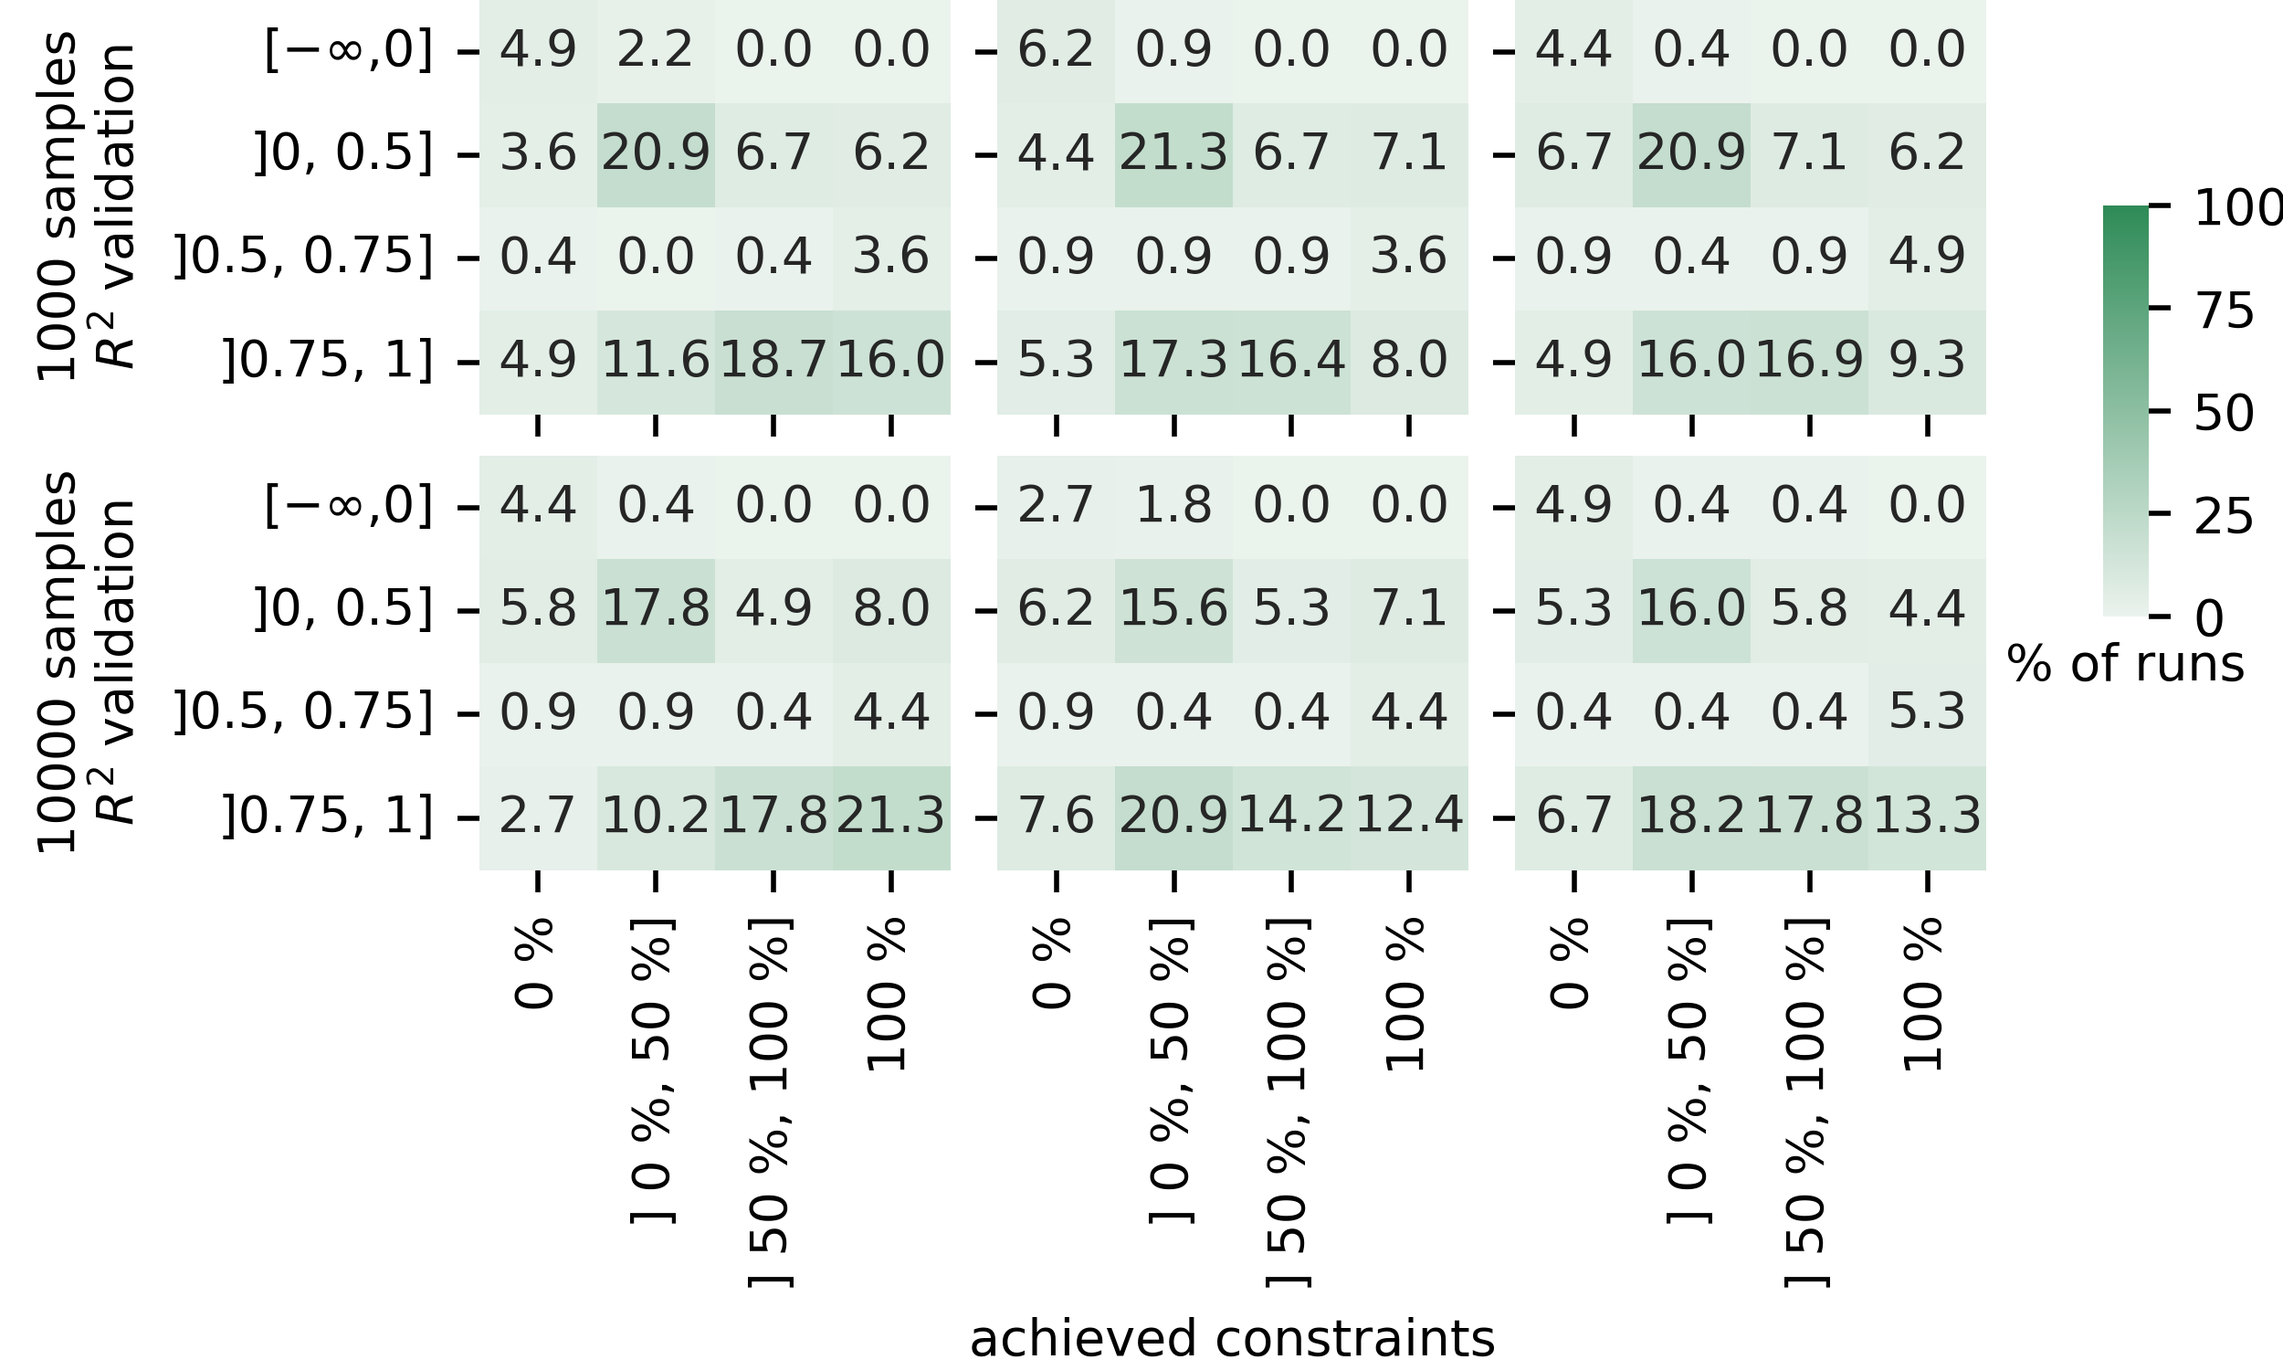
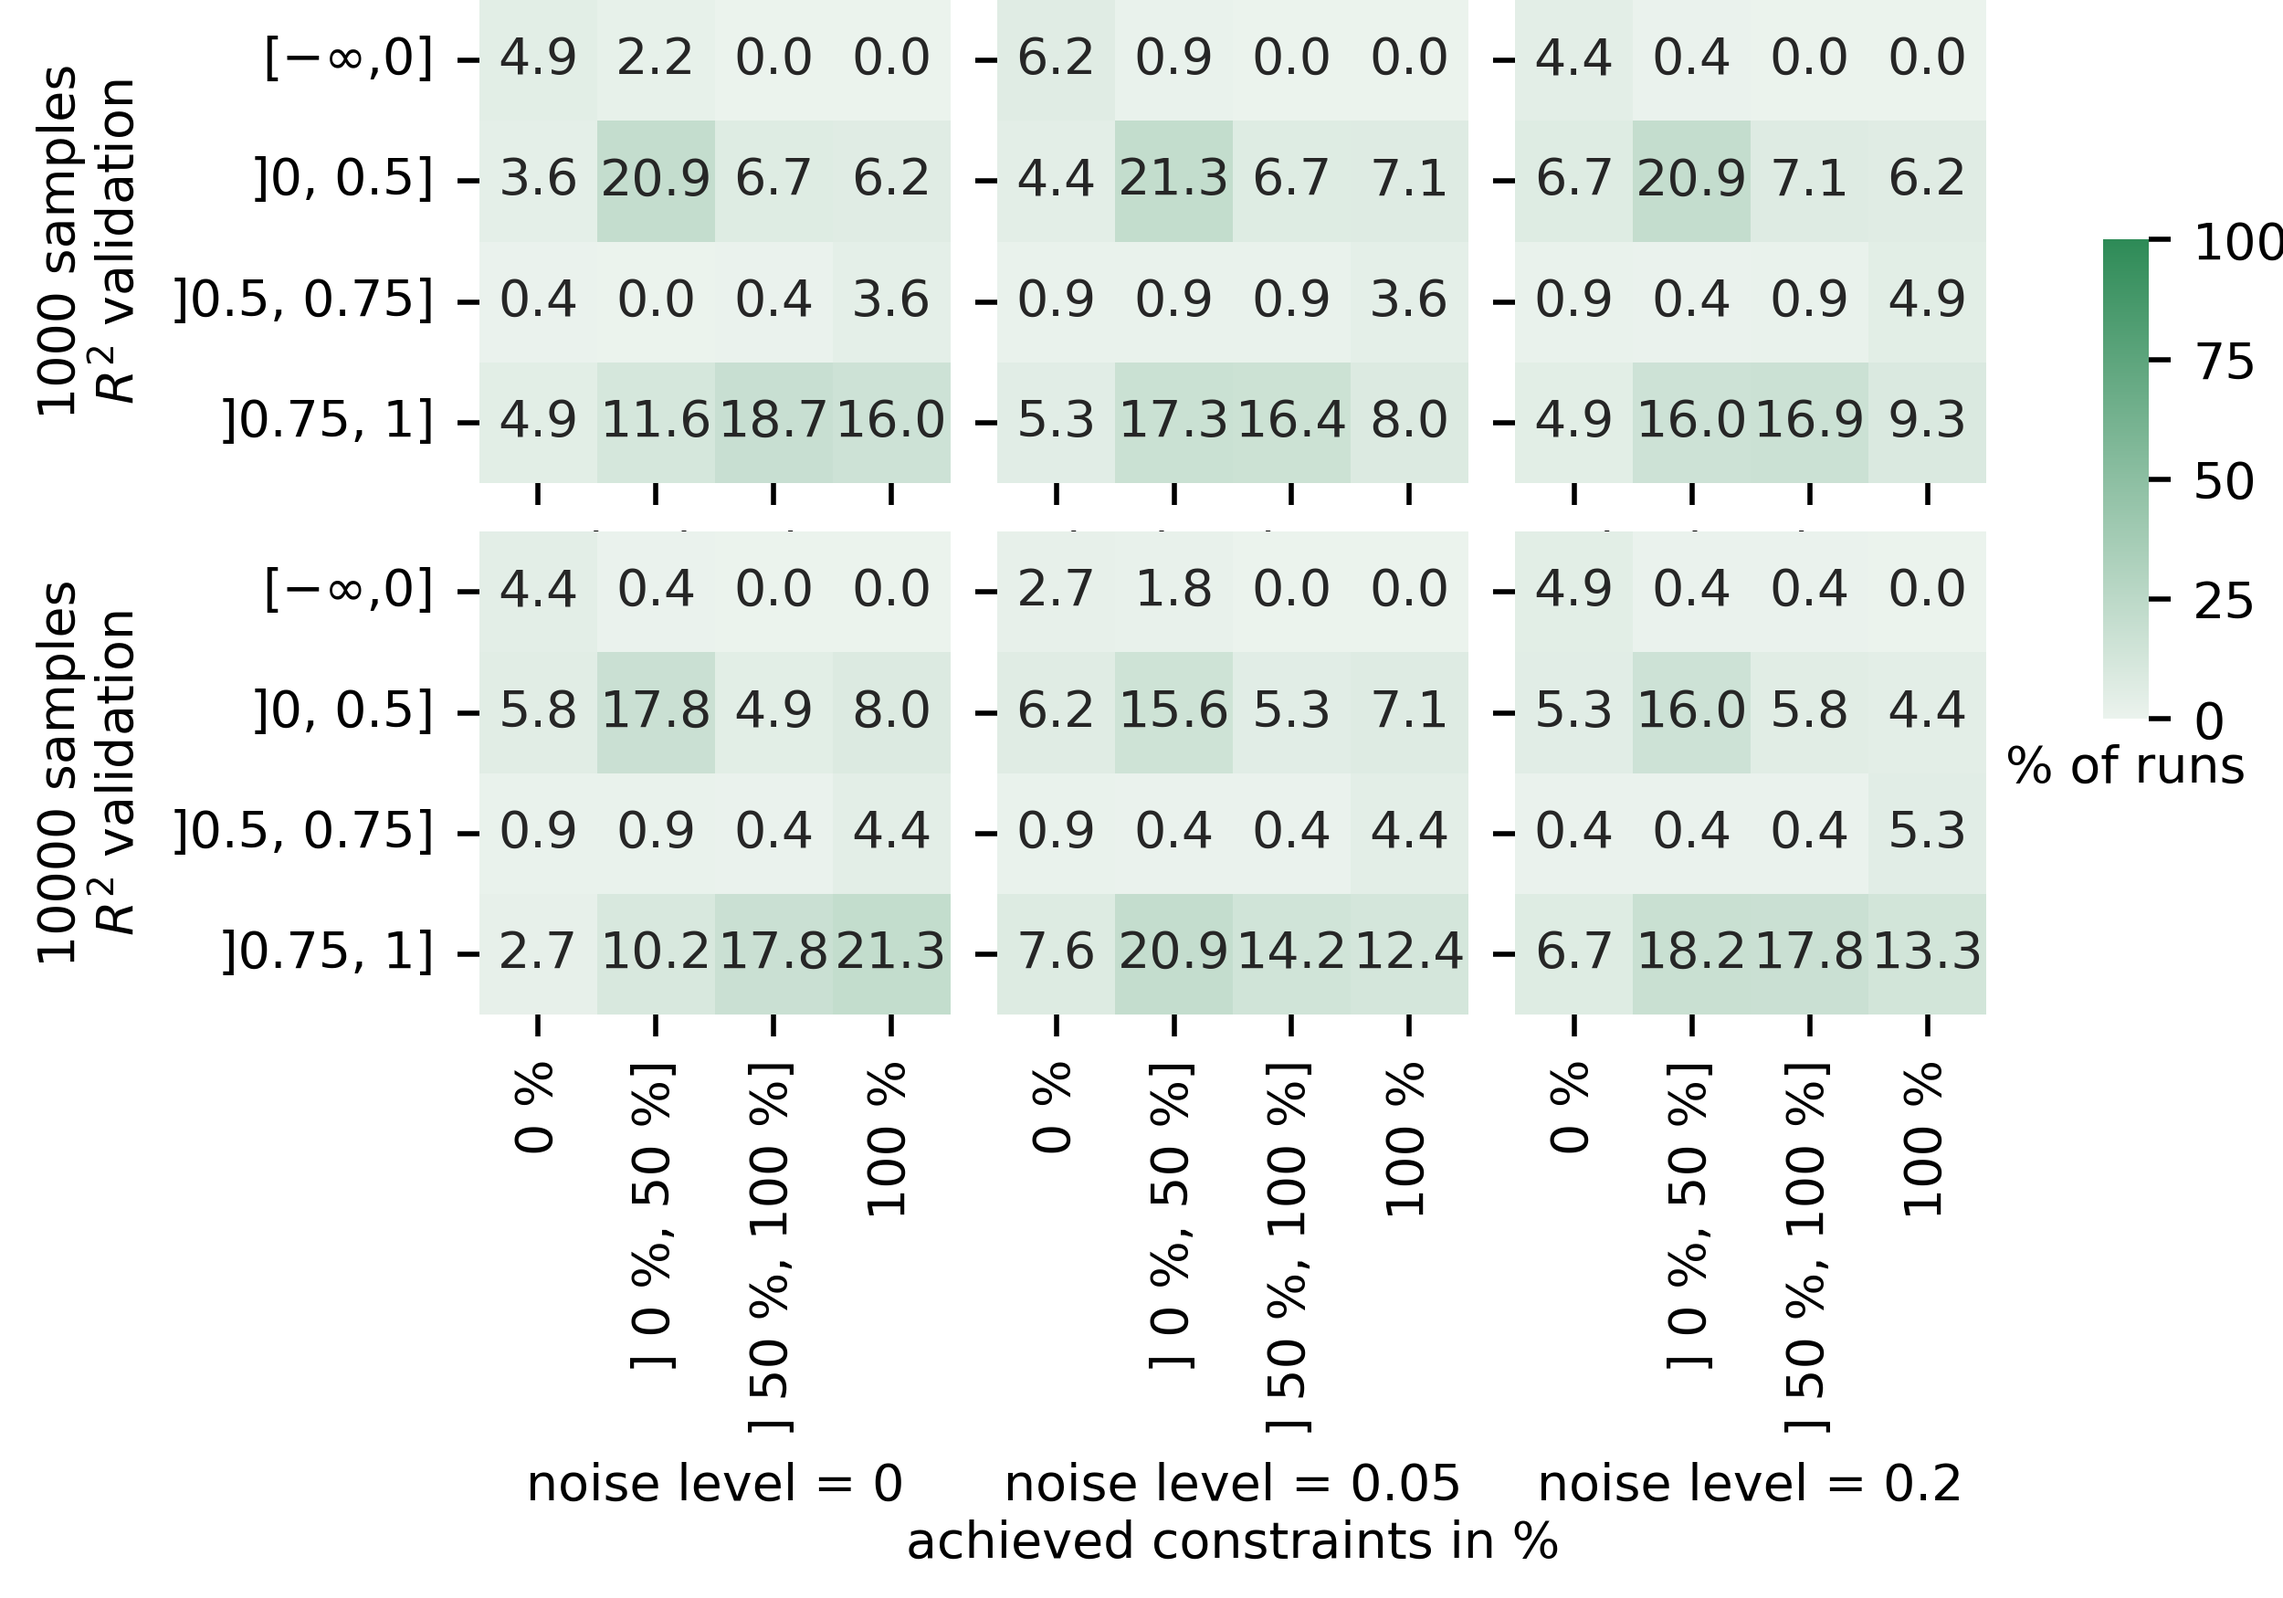
fix size of heatmap to include x label

diff --git a/results/5-heatmap.py b/results/5-heatmap.py
@@ -75,7 +75,7 @@ norm = Normalize(vmin=0, vmax=100)
 cmap =sns.light_palette("seagreen", as_cmap=True)
 # ax.set_xlabel(f'error function width $\psi$')
 # ax.set_ylabel(f'noise level $\zeta$')
-f, ax = plt.subplots(2,3, figsize=(5, 3), sharex=True, sharey=True)
+f, ax = plt.subplots(2,3, figsize=(5, 3.5), sharex=True, sharey=True)
 plt.subplots_adjust(left=0.21, bottom=0.365, right=0.87, top=1, wspace=0.1, hspace=0.1)
 cbar_ax = f.add_axes([.921, .55, .02, .3])
 
@@ -98,9 +98,9 @@ for sampleSize in np.unique(results['SampleSize']):
     hm = sns.heatmap(data=pivot, ax=ax[row,col], norm=norm, cmap=cmap, cbar_ax=cbar_ax, annot=True, fmt='.1f', annot_kws={"size": 8})
 
     if((row == max_row_idx ) and (col == 1)):
-      ax[row,col].set_xlabel(f'achieved constraints\nnoise level = {noiseLevel}')
+      ax[row,col].set_xlabel(f'noise level = {noiseLevel.replace(",",".")}\nachieved constraints in %')
     else:
-      ax[row,col].set_xlabel(f'')
+      ax[row,col].set_xlabel(f'noise level = {noiseLevel.replace(",",".")}')
     if(col == 0):
       ax[row,col].set_ylabel(f'{sampleSize} samples\n$R^2$ validation')
     else:
